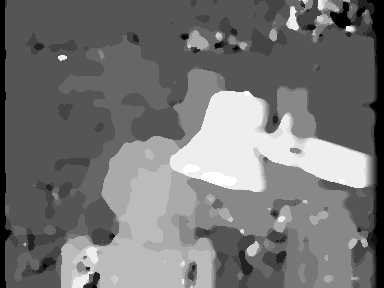
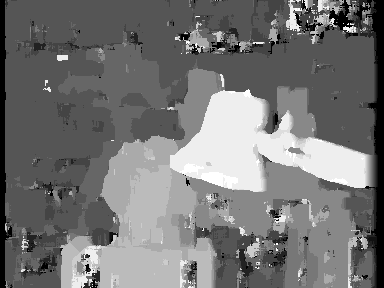
adding ncc

diff --git a/disparity_map.cpp b/disparity_map.cpp
@@ -4,10 +4,10 @@
 #include <iostream>
 #include <ctime>
 // Best result SAD with Window = 7
-#define WINDOW_SIZE 5
+#define WINDOW_SIZE 9
 #define DISPARITY_INTERVAL 15
 #define SET "tsukuba"
-#define METHOD "ssd"
+#define METHOD "ncc"
 //TEDDY 59
 //CONES 59
 //VENUS 19
@@ -69,14 +69,26 @@ cv::Mat addWindowFrames(cv::Mat image) {
 cv::Point getBestMatch(cv::Point currentPosition) {
 	cv::Point bestMatch;
 	double bestValue = std::numeric_limits<double>::max();
+	
+	if(METHOD == "ncc") {
+		bestValue = -bestValue;
+	}
 
 	cv::Size imageSize = image0.size();
 //	for(int column = WINDOW_SIZE; column < imageSize.width - WINDOW_SIZE; column++) {
 	for(int column = currentPosition.x; column <= currentPosition.x + DISPARITY_INTERVAL; column++) {
 		double value = getValue(currentPosition, cv::Point(column, currentPosition.y));
-		if(value < bestValue) {
-			bestValue = value;
-			bestMatch = cv::Point(column, currentPosition.y);
+		if(METHOD != "ncc") {
+			if(value < bestValue) {
+				bestValue = value;
+				bestMatch = cv::Point(column, currentPosition.y);
+			}
+		}
+		else {
+			if(value > bestValue) {
+				bestValue = value;
+				bestMatch = cv::Point(column, currentPosition.y);
+			}
 		}
 	}
 
@@ -128,12 +140,46 @@ double sadValue(cv::Point currentPosition, cv::Point position) {
 	return value;
 }
 
+double nccValue(cv::Point currentPosition, cv::Point position) {
+	double num = 0;
+	double den1 = 0;
+	double den2 = 0;
+	double value = 0;
+	int row, column;
+	uchar grey0, grey1;
+	cv::Point from, to;
+	
+	
+	for(row = -WINDOW_SIZE; row <= WINDOW_SIZE; row++) {
+		for(column = -WINDOW_SIZE; column <= WINDOW_SIZE; column++) {
+			cv::Vec3b image0Value = image0.at<cv::Vec3b>(currentPosition.y + row, currentPosition.x + column);
+			cv::Vec3b image1Value = image1.at<cv::Vec3b>(position.y + row, position.x + column);
+			
+			from = cv::Point(image0Value[1], image0Value[2]);
+			to = cv::Point(image1Value[1], image1Value[2]);
+			
+			grey0 = image0Value[0];
+			grey1 = image1Value[0];
+			
+			num += grey0 * grey1;
+
+			den1 += grey0 * grey0;
+			den2 += grey1 * grey1;
+		}
+	}
+	
+	return num / sqrt(den1 * den2);
+}
+
 double getValue(cv::Point currentPosition, cv::Point position) {
 	if(METHOD == "ssd") {
 		return ssdValue(currentPosition, position);
 	}
 	else if(METHOD == "sad") {
 		return sadValue(currentPosition, position);
+	}
+	else if(METHOD == "ncc") {
+		return nccValue(currentPosition, position);
 	}
 	return 0;
 }
